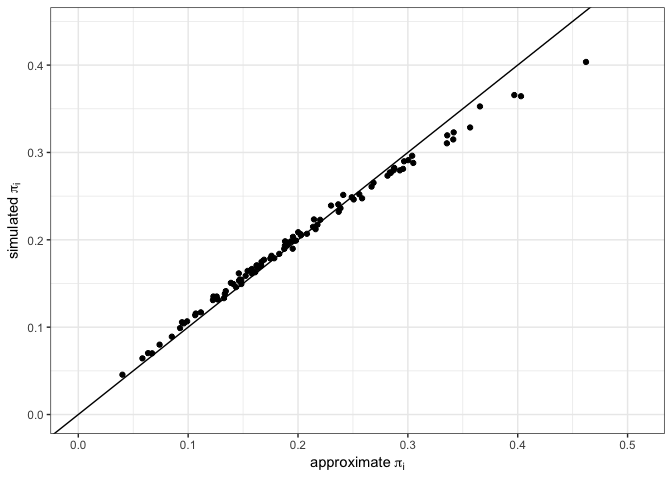
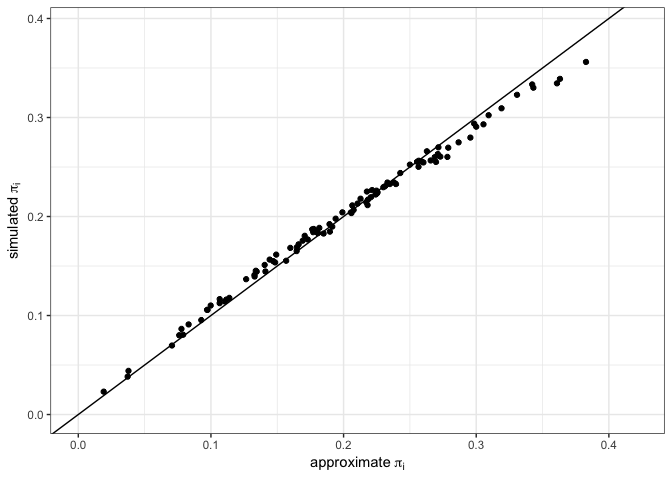
update post

diff --git a/_posts/2019-01-31-horvitz_thompson.md b/_posts/2019-01-31-horvitz_thompson.md
@@ -69,7 +69,7 @@ stands %>%
   labs(caption = "volume over age for the forest")
 ```
 
-![](/assets/images/2019-01-31-horvitz_thompson_data-1.png) The true population mean stocking is 2364 cubic feet per acre, the population total is 1.956991610^{7} cubic feet!
+![](/assets/images/2019-01-31-horvitz_thompson_data-1.png) The true population mean stocking is 2562 cubic feet per acre, the population total is 2.118839510^{7} cubic feet!
 
 Designing a sample
 ------------------
@@ -85,8 +85,10 @@ The population of stands could be sampled randomly, but since we are trying to o
 #### Inclusion probability
 
 Some texts will approximate *π*<sub>*i*</sub> like this:
+
 *π*<sub>*i*</sub> = *n* \* *p*<sub>*i*</sub>
- where *p*<sub>*i*</sub> is the sampling weight for the *i*th primary sample unit. This works fine when sampling with replacement, but sampling without replacement is slightly more complicated. The probability of including the *i*th element on the *k*th draw depends on the elements that were drawn in all draws 1 : *k*. The distinction between *p*<sub>*i*</sub> and *π*<sub>*i*</sub> is very important. Think of *π*<sub>*i*</sub> as the likelihood of including the *i*th element unconditional on the other elements selected in the sample. This can be calculated by computing the proportion of all possible samples where an element is selected but that sounds very difficult. Instead we will use the power of simulation to obtain an approximation of *π*<sub>*i*</sub> for each stand.
+
+where *p*<sub>*i*</sub> is the sampling weight for the *i*th primary sample unit. This works fine when sampling with replacement, but sampling without replacement is slightly more complicated. The probability of including the *i*th element on the *k*th draw depends on the elements that were drawn in all draws 1 : *k*. The distinction between *p*<sub>*i*</sub> and *π*<sub>*i*</sub> is very important. Think of *π*<sub>*i*</sub> as the likelihood of including the *i*th element unconditional on the other elements selected in the sample. This can be calculated by computing the proportion of all possible samples where an element is selected but that sounds very difficult. Instead we will use the power of simulation to obtain an approximation of *π*<sub>*i*</sub> for each stand.
 
 ``` r
 
@@ -245,6 +247,7 @@ $$
  where *S* is the sample of primary sample units from population sized *N*
 
 The estimator for variance of the population total is:
+
 $$
 \\hat{V}(\\hat{t}\_{HT}) = \\sum\_{i \\in S} (1 - \\pi\_{i}) \\displaystyle \\frac{\\hat{t\_{i}}^{2}}{\\pi\_{i}^{2}}+
 \\sum\_{i \\in S} \\sum\_{\\substack{k \\in S \\\\ k \\neq i}} \\displaystyle \\frac{\\pi\_{ik} - \\pi\_{i}\\pi\_{k}}{\\pi\_{ik}}
@@ -253,6 +256,7 @@ $$
 $$
 
 where *π*<sub>*i**k*</sub> is the joint inclusion probability for primary sampling units *i* and *k*. *π*<sub>*i**k*</sub> is approximated using this equation:
+
 *π*<sub>*i*</sub> + *π*<sub>*k*</sub> − (1 − (1 − *p*<sub>*i*</sub> − *p*<sub>*k*</sub>)<sup>*n*</sup>)
 
 We will extend the estimate of population variance ($\\hat{V}(\\hat{t}\_{HT})$) to obtain a standard error and 90% confidence interval for the population.
@@ -590,49 +594,49 @@ pander::pander(
 <tr class="odd">
 <td align="center">estimate</td>
 <td align="center">10</td>
-<td align="center">2429</td>
-<td align="center">414.8</td>
+<td align="center">2629</td>
+<td align="center">448.2</td>
 <td align="center">0.99</td>
 </tr>
 <tr class="even">
 <td align="center">estimate</td>
 <td align="center">20</td>
-<td align="center">2428</td>
-<td align="center">208.5</td>
+<td align="center">2629</td>
+<td align="center">223.8</td>
 <td align="center">0.94</td>
 </tr>
 <tr class="odd">
 <td align="center">estimate</td>
 <td align="center">30</td>
-<td align="center">2445</td>
-<td align="center">164.1</td>
-<td align="center">0.84</td>
+<td align="center">2636</td>
+<td align="center">174.9</td>
+<td align="center">0.92</td>
 </tr>
 <tr class="even">
 <td align="center">estimate</td>
 <td align="center">40</td>
-<td align="center">2452</td>
-<td align="center">144.4</td>
-<td align="center">0.8</td>
+<td align="center">2624</td>
+<td align="center">153.9</td>
+<td align="center">0.97</td>
 </tr>
 <tr class="odd">
 <td align="center">estimate</td>
 <td align="center">50</td>
-<td align="center">2433</td>
-<td align="center">127.7</td>
-<td align="center">0.82</td>
+<td align="center">2636</td>
+<td align="center">138.2</td>
+<td align="center">0.89</td>
 </tr>
 <tr class="even">
 <td align="center">estimate</td>
 <td align="center">60</td>
-<td align="center">2435</td>
-<td align="center">110.5</td>
-<td align="center">0.75</td>
+<td align="center">2618</td>
+<td align="center">120</td>
+<td align="center">0.87</td>
 </tr>
 <tr class="odd">
 <td align="center"><strong>truth</strong></td>
 <td align="center"><strong>-</strong></td>
-<td align="center"><strong>2364</strong></td>
+<td align="center"><strong>2562</strong></td>
 <td align="center"><strong>-</strong></td>
 <td align="center"><strong>-</strong></td>
 </tr>
